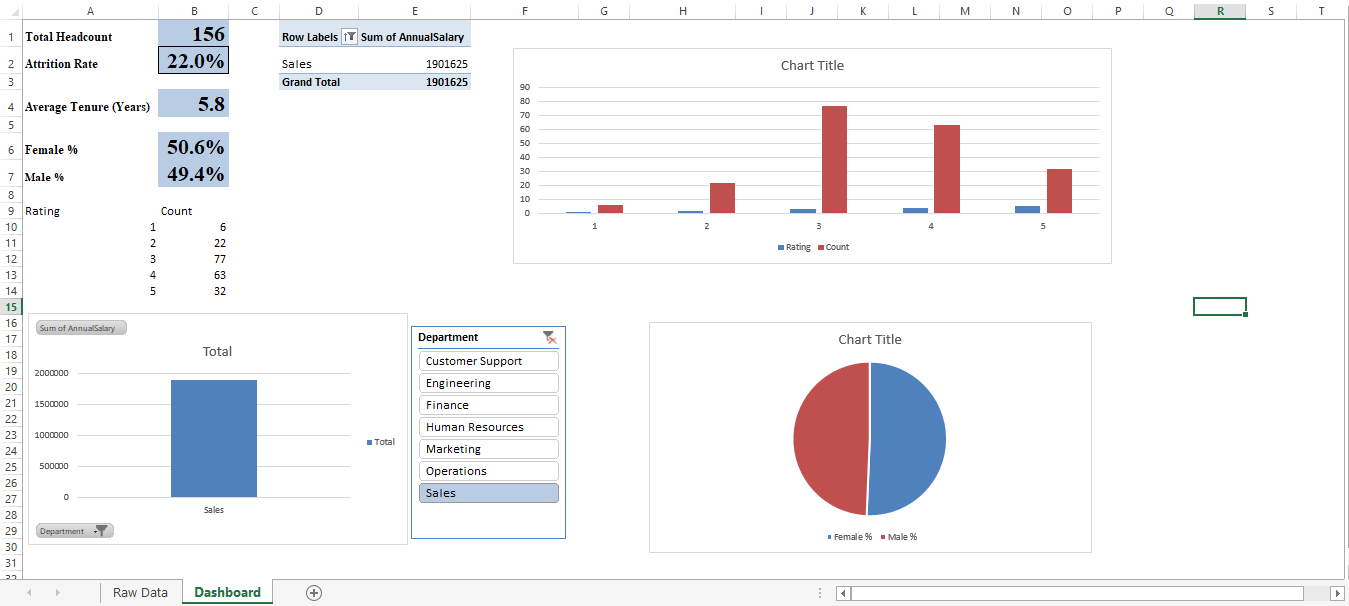
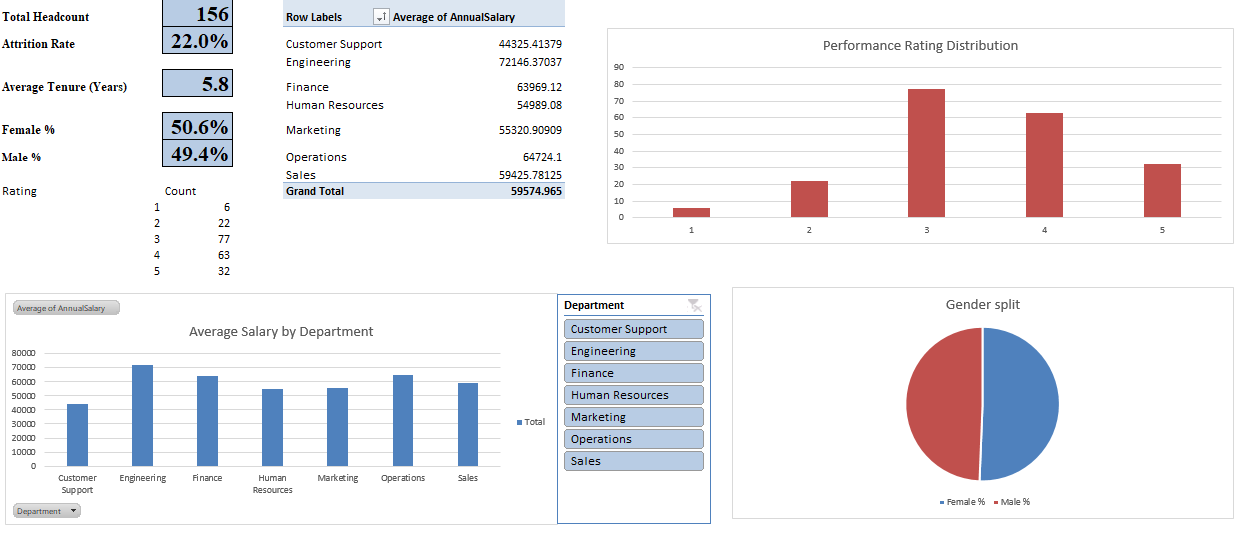
dashboard edited

diff --git a/README.md b/README.md
@@ -1,26 +1,40 @@
 # HR KPI Excel Dashboard
 
-An interactive HR analytics dashboard built in Microsoft Excel, tracking key
-workforce metrics for a company of 200 employees.
+An interactive HR analytics dashboard built entirely in Microsoft Excel, tracking core workforce metrics for a company of 200 employees using PivotTables, PivotCharts, and slicers — no external tools required to explore it.
 
-## KPIs Tracked
-- Total Headcount
-- Attrition Rate
-- Average Salary by Department
-- Average Tenure (Years)
-- Gender Diversity Split
-- Performance Rating Distribution
+## What this is
 
-## Tools & Skills Used
+I wanted a project that showed Excel used the way an HR or People Ops team would actually use it day to day — not just formulas in a spreadsheet, but a single-page dashboard someone could open, filter by department, and pull real answers from without touching the raw data.
+
+## KPIs tracked
+
+- **Total Headcount** — 156 active employees
+- **Attrition Rate** — 22.0%
+- **Average Tenure** — 5.8 years
+- **Gender Split** — 50.6% female / 49.4% male
+- **Average Salary by Department** — ranges from $44.3K (Customer Support) to $72.1K (Engineering), across 7 departments
+- **Performance Rating Distribution** — ratings 1–5, with the bulk of employees rated 3 (77) and 4 (63)
+
+## Tools & skills used
+
 - PivotTables & PivotCharts
 - COUNTIFS / AVERAGEIFS formulas
 - Excel Tables (structured references)
-- Slicers for interactive filtering
-- Custom formatting and dashboard layout design
+- Slicers for interactive filtering by department
+- Dashboard layout and formatting, built for a single-screen view
 
-## Preview
-![Dashboard Preview](dashboard_preview.png)
+## How to explore it
+
+Open `hr_employee_data.xlsx` and go to the **Dashboard** sheet. Click through the department slicer to filter the salary chart, or check the **Raw Data** sheet to see the underlying records the dashboard pulls from.
 
 ## Data
-Sample dataset of 200 employee records (synthetic data) including department,
-job title, salary, hire/termination dates, and performance ratings.
+
+Synthetic dataset of 200 employee records — department, job title, salary, hire/termination dates, and performance ratings. Built to be realistic enough to demonstrate real HR reporting questions, not pulled from any real company.
+
+## Preview
+
+![Dashboard Preview](dashboard_preview.png)
+
+## About me
+
+Built by Salahddine Dkaki as part of a data analytics portfolio. Reach out on [LinkedIn](https://www.linkedin.com/in/salahddinedkaki/).
